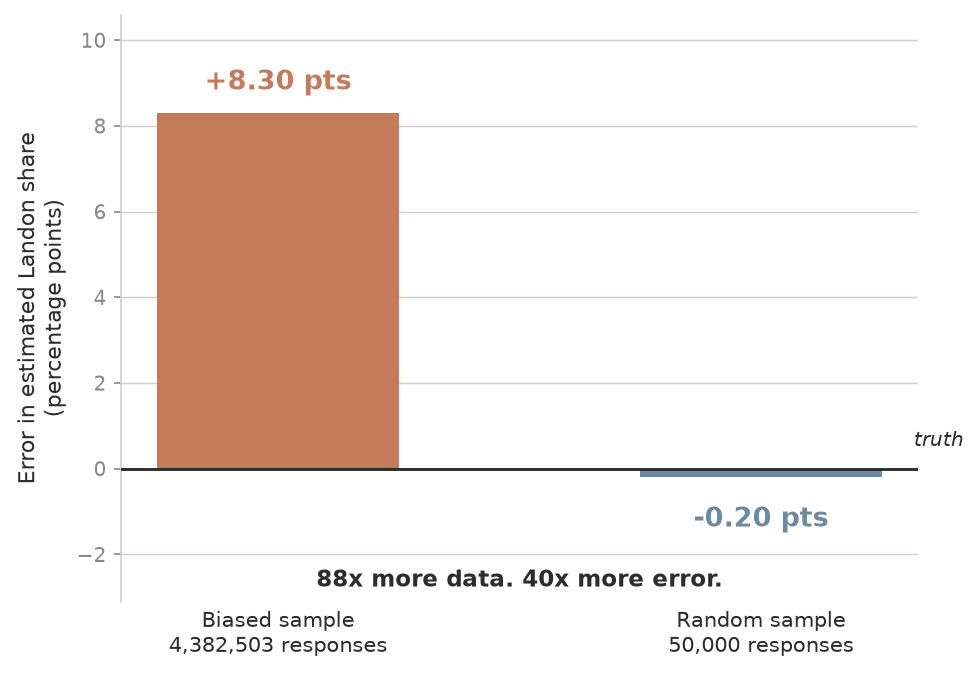
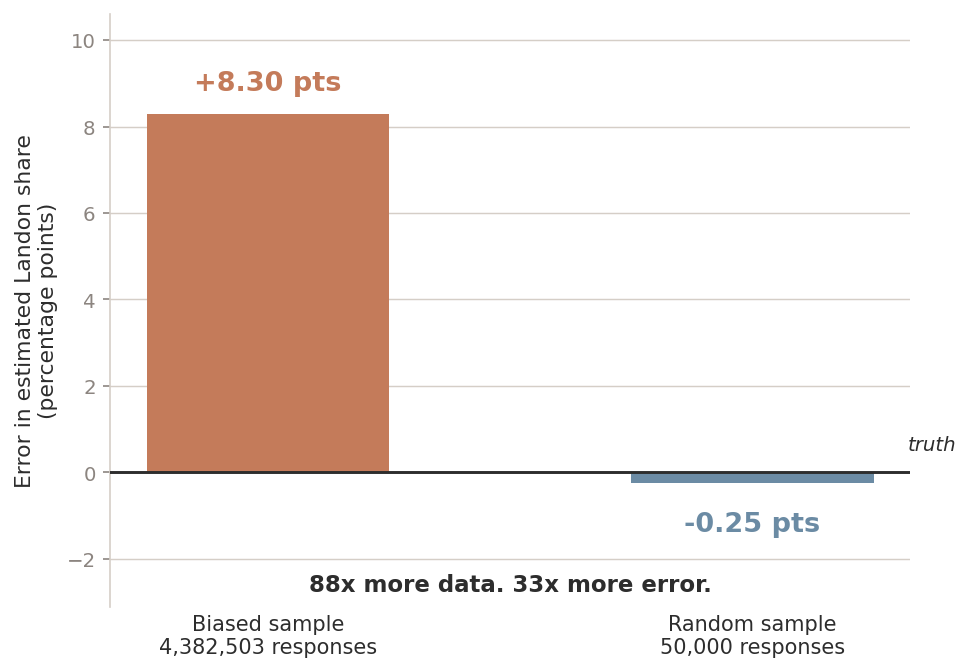
3916 Ch 6 G30: 40 Times the Error -> 33, and make the table support it
Ryan asked for the title. Fixing only the title would have left the
slide unable to justify it, so this corrects the whole chain:

  * title: '88 Times the Data. 40 Times the Error.' -> '33 Times'
  * table: Gallup error -0.20 pts -> -0.25 pts
  * speaker note: '8.30 against 0.20 is roughly 40 times' -> 0.25, 33
  * figures/fig003.py: errs=[8.30,-0.20] -> [8.30,-0.25], its -0.20 pts
    annotation, and the '88x more data. 40x more error.' caption
  * figure_003_digest_vs_gallup.png regenerated

Source of truth: book/3916/labs/lab-ch06-guided.ipynb at
RANDOM_STATE=42, which reproduces 4,382,503 Digest responses exactly --
so the RNG stream is pinned and the rest of the run is trustworthy. It
gives true 0.5527, Digest 0.6357 (+8.30), Gallup 0.5502 (-0.25).
8.30/0.25 = 33.2.

The shares are now shown to four decimals, which was not in the ask but
the correction is not sound without it: at three decimals the table read
0.636 / 0.550 / 0.553, and a student doing the division the slide
invites would get 27.7x -- neither 40 nor 33. At four decimals
0.6357-0.5527 = +8.30 and 0.5502-0.5527 = -0.25 exactly, so the title
now follows from the numbers printed above it. Revert that part if the
extra digit is not wanted; the title and error cell stand on their own.

fig003.py previously carried the comment 'Numbers straight from the lab
run' above a typed literal that the lab no longer produces -- the same
defect class as Ch 4's AM-vs-GM figure.
[…]

diff --git a/econ3916/ch06-sampling-and-bias/index.html b/econ3916/ch06-sampling-and-bias/index.html
@@ -612,7 +612,7 @@
 
     <!-- SLIDE 33: Figure 003 + results -->
     <section id="sim-results" style="padding: 26px 45px;">
-      <h2><i class="fa-solid fa-chart-column" style="color: var(--danger-color);"></i> 88 Times the Data. 40 Times the Error.</h2>
+      <h2><i class="fa-solid fa-chart-column" style="color: var(--danger-color);"></i> 88 Times the Data. 33 Times the Error.</h2>
       <div class="content">
         <div style="display: grid; grid-template-columns: 46% 54%; gap: 22px; align-items: center;">
           <table style="width: 100%; border-collapse: collapse; font-size: 13.5pt;">
@@ -625,15 +625,15 @@
             </thead>
             <tbody>
               <tr><td style="padding: 10px 11px; border-bottom: 1px solid var(--line-color);">Responses</td><td style="padding: 10px 11px; text-align: right; border-bottom: 1px solid var(--line-color);"><strong>4,382,503</strong></td><td style="padding: 10px 11px; text-align: right; border-bottom: 1px solid var(--line-color);"><strong>50,000</strong></td></tr>
-              <tr><td style="padding: 10px 11px; border-bottom: 1px solid var(--line-color);">Estimated Landon share</td><td style="padding: 10px 11px; text-align: right; border-bottom: 1px solid var(--line-color);">0.636</td><td style="padding: 10px 11px; text-align: right; border-bottom: 1px solid var(--line-color);">0.550</td></tr>
-              <tr><td style="padding: 10px 11px; border-bottom: 1px solid var(--line-color);">True share</td><td style="padding: 10px 11px; text-align: right; border-bottom: 1px solid var(--line-color);">0.553</td><td style="padding: 10px 11px; text-align: right; border-bottom: 1px solid var(--line-color);">0.553</td></tr>
-              <tr style="background: #f8f6f3;"><td style="padding: 11px 11px;"><strong>Error</strong></td><td style="padding: 11px 11px; text-align: right; color: var(--danger-color);"><strong>+8.30 pts</strong></td><td style="padding: 11px 11px; text-align: right; color: var(--success-color);"><strong>&minus;0.20 pts</strong></td></tr>
+              <tr><td style="padding: 10px 11px; border-bottom: 1px solid var(--line-color);">Estimated Landon share</td><td style="padding: 10px 11px; text-align: right; border-bottom: 1px solid var(--line-color);">0.6357</td><td style="padding: 10px 11px; text-align: right; border-bottom: 1px solid var(--line-color);">0.5502</td></tr>
+              <tr><td style="padding: 10px 11px; border-bottom: 1px solid var(--line-color);">True share</td><td style="padding: 10px 11px; text-align: right; border-bottom: 1px solid var(--line-color);">0.5527</td><td style="padding: 10px 11px; text-align: right; border-bottom: 1px solid var(--line-color);">0.5527</td></tr>
+              <tr style="background: #f8f6f3;"><td style="padding: 11px 11px;"><strong>Error</strong></td><td style="padding: 11px 11px; text-align: right; color: var(--danger-color);"><strong>+8.30 pts</strong></td><td style="padding: 11px 11px; text-align: right; color: var(--success-color);"><strong>&minus;0.25 pts</strong></td></tr>
             </tbody>
           </table>
           <img src="figures/figure_003_digest_vs_gallup.png" alt="Bar chart contrasting an 8.30 percentage point error from a biased sample of 4.38 million responses against a 0.20 point error from a random sample of 50,000" style="width: 100%;">
         </div>
       </div>
-      <aside class="notes" data-sv="1"><p style="margin:0 0 .3em;font-size:.82em;color:#777">2 min.</p><div class="sv-lead" style="margin:0 0 .5em;padding:.06em 0 .10em .55em;border-left:5px solid #1565C0;font-size:1.28em;line-height:1.34;font-weight:600;color:#111"><p>Let the arithmetic land before you interpret: 4.38 million against 50,000 is 88 times the data, and 8.30 against 0.20 is roughly 40 times the error.</p></div><div class="sv-rest" style="margin:0;font-size:.9em;line-height:1.45;color:#5d5d5d"><ul style="margin:0 0 0.8em 1.1em;padding:0"><li style="margin:0 0 0.35em">Then the sentence the chapter wants them to own: sample size did not help; sample design did.</li></ul></div></aside>
+      <aside class="notes" data-sv="1"><p style="margin:0 0 .3em;font-size:.82em;color:#777">2 min.</p><div class="sv-lead" style="margin:0 0 .5em;padding:.06em 0 .10em .55em;border-left:5px solid #1565C0;font-size:1.28em;line-height:1.34;font-weight:600;color:#111"><p>Let the arithmetic land before you interpret: 4.38 million against 50,000 is 88 times the data, and 8.30 against 0.25 is roughly 33 times the error.</p></div><div class="sv-rest" style="margin:0;font-size:.9em;line-height:1.45;color:#5d5d5d"><ul style="margin:0 0 0.8em 1.1em;padding:0"><li style="margin:0 0 0.35em">Then the sentence the chapter wants them to own: sample size did not help; sample design did.</li></ul></div></aside>
     </section>
 
     <!-- SLIDE 34: identity exact -->

diff --git a/econ3916/ch06-sampling-and-bias/presentation.html b/econ3916/ch06-sampling-and-bias/presentation.html
@@ -612,7 +612,7 @@
 
     <!-- SLIDE 33: Figure 003 + results -->
     <section id="sim-results" style="padding: 26px 45px;">
-      <h2><i class="fa-solid fa-chart-column" style="color: var(--danger-color);"></i> 88 Times the Data. 40 Times the Error.</h2>
+      <h2><i class="fa-solid fa-chart-column" style="color: var(--danger-color);"></i> 88 Times the Data. 33 Times the Error.</h2>
       <div class="content">
         <div style="display: grid; grid-template-columns: 46% 54%; gap: 22px; align-items: center;">
           <table style="width: 100%; border-collapse: collapse; font-size: 13.5pt;">
@@ -625,15 +625,15 @@
             </thead>
             <tbody>
               <tr><td style="padding: 10px 11px; border-bottom: 1px solid var(--line-color);">Responses</td><td style="padding: 10px 11px; text-align: right; border-bottom: 1px solid var(--line-color);"><strong>4,382,503</strong></td><td style="padding: 10px 11px; text-align: right; border-bottom: 1px solid var(--line-color);"><strong>50,000</strong></td></tr>
-              <tr><td style="padding: 10px 11px; border-bottom: 1px solid var(--line-color);">Estimated Landon share</td><td style="padding: 10px 11px; text-align: right; border-bottom: 1px solid var(--line-color);">0.636</td><td style="padding: 10px 11px; text-align: right; border-bottom: 1px solid var(--line-color);">0.550</td></tr>
-              <tr><td style="padding: 10px 11px; border-bottom: 1px solid var(--line-color);">True share</td><td style="padding: 10px 11px; text-align: right; border-bottom: 1px solid var(--line-color);">0.553</td><td style="padding: 10px 11px; text-align: right; border-bottom: 1px solid var(--line-color);">0.553</td></tr>
-              <tr style="background: #f8f6f3;"><td style="padding: 11px 11px;"><strong>Error</strong></td><td style="padding: 11px 11px; text-align: right; color: var(--danger-color);"><strong>+8.30 pts</strong></td><td style="padding: 11px 11px; text-align: right; color: var(--success-color);"><strong>&minus;0.20 pts</strong></td></tr>
+              <tr><td style="padding: 10px 11px; border-bottom: 1px solid var(--line-color);">Estimated Landon share</td><td style="padding: 10px 11px; text-align: right; border-bottom: 1px solid var(--line-color);">0.6357</td><td style="padding: 10px 11px; text-align: right; border-bottom: 1px solid var(--line-color);">0.5502</td></tr>
+              <tr><td style="padding: 10px 11px; border-bottom: 1px solid var(--line-color);">True share</td><td style="padding: 10px 11px; text-align: right; border-bottom: 1px solid var(--line-color);">0.5527</td><td style="padding: 10px 11px; text-align: right; border-bottom: 1px solid var(--line-color);">0.5527</td></tr>
+              <tr style="background: #f8f6f3;"><td style="padding: 11px 11px;"><strong>Error</strong></td><td style="padding: 11px 11px; text-align: right; color: var(--danger-color);"><strong>+8.30 pts</strong></td><td style="padding: 11px 11px; text-align: right; color: var(--success-color);"><strong>&minus;0.25 pts</strong></td></tr>
             </tbody>
           </table>
           <img src="figures/figure_003_digest_vs_gallup.png" alt="Bar chart contrasting an 8.30 percentage point error from a biased sample of 4.38 million responses against a 0.20 point error from a random sample of 50,000" style="width: 100%;">
         </div>
       </div>
-      <aside class="notes" data-sv="1"><p style="margin:0 0 .3em;font-size:.82em;color:#777">2 min.</p><div class="sv-lead" style="margin:0 0 .5em;padding:.06em 0 .10em .55em;border-left:5px solid #1565C0;font-size:1.28em;line-height:1.34;font-weight:600;color:#111"><p>Let the arithmetic land before you interpret: 4.38 million against 50,000 is 88 times the data, and 8.30 against 0.20 is roughly 40 times the error.</p></div><div class="sv-rest" style="margin:0;font-size:.9em;line-height:1.45;color:#5d5d5d"><ul style="margin:0 0 0.8em 1.1em;padding:0"><li style="margin:0 0 0.35em">Then the sentence the chapter wants them to own: sample size did not help; sample design did.</li></ul></div></aside>
+      <aside class="notes" data-sv="1"><p style="margin:0 0 .3em;font-size:.82em;color:#777">2 min.</p><div class="sv-lead" style="margin:0 0 .5em;padding:.06em 0 .10em .55em;border-left:5px solid #1565C0;font-size:1.28em;line-height:1.34;font-weight:600;color:#111"><p>Let the arithmetic land before you interpret: 4.38 million against 50,000 is 88 times the data, and 8.30 against 0.25 is roughly 33 times the error.</p></div><div class="sv-rest" style="margin:0;font-size:.9em;line-height:1.45;color:#5d5d5d"><ul style="margin:0 0 0.8em 1.1em;padding:0"><li style="margin:0 0 0.35em">Then the sentence the chapter wants them to own: sample size did not help; sample design did.</li></ul></div></aside>
     </section>
 
     <!-- SLIDE 34: identity exact -->
